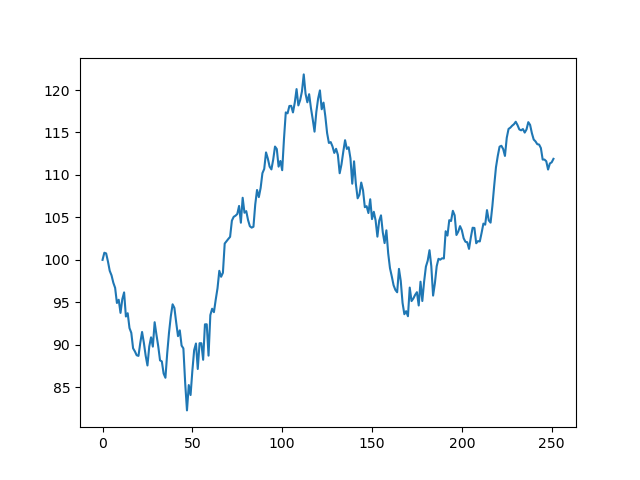
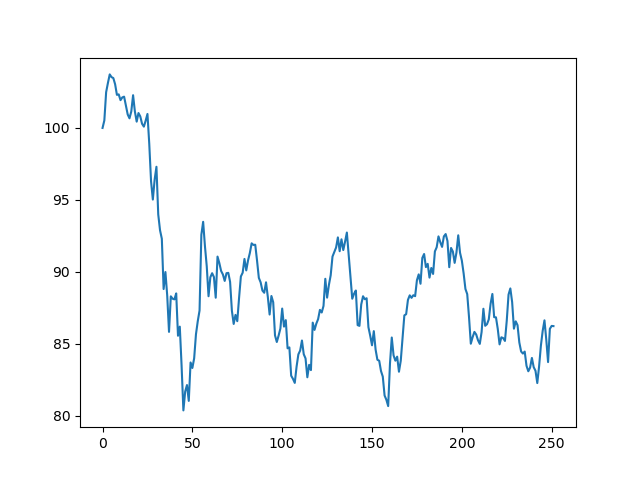
nll completed for DCC GARCH

diff --git a/data_generation_processes/DCC_GARCH.py b/data_generation_processes/DCC_GARCH.py
@@ -1,6 +1,7 @@
 import numpy as np
 import matplotlib.pyplot as plt
 from scipy.optimize import minimize
+import yfinance as yf
 
 class DCC_GARCH():
     """
@@ -29,56 +30,186 @@ class DCC_GARCH():
         self.N = data.shape[0]
         self.T = data.shape[1]
         self.data = data
-        self.r_data = data                                                      #(N, T)
-        self.mu = np.mean(self.r_data, axis=1, keepdims=True)                        #(N, 1) 
-        self.a_data = self.r_data - np.mean(self.r_data, axis=1, keepdims=True)           #(N, T)
-        self.H = np.cov(self.a_data)                                       #(N, N)
-        self.H_factor = np.linalg.cholesky(self.H)                        #(N, N)
-        self.D = np.diag(np.std(self.r_data, axis=1))                           #(N, N)
-        self.R = np.corrcoef(self.a_data)                                  #(N, N)
-        self.alpha0 = np.random.randn(self.N, 1)*0.1                            #(N, 1)
-        self.alpha = np.random.randn(self.N, 1)*0.1                             #(N, 1)
-        self.beta = np.random.randn(self.N, 1)*0.1                              #(N, 1)
-        self.a_return = self.H_factor@np.random.randn(self.N, 1)      #(N, 1)
-        self.r = self.mu + self.a_return     
+        self.r_data = data                                                          #(N, T)
+        self.mu = np.mean(self.r_data, axis=1, keepdims=True)                       #(N, 1) 
+        self.a_data = self.r_data - np.mean(self.r_data, axis=1, keepdims=True)     #(N, T)
+        self.H = np.cov(self.a_data)                                                #(N, N)
+        self.H_factor = np.linalg.cholesky(self.H)                                  #(N, N)
+        self.D = np.diag(np.std(self.a_data, axis=1))                               #(N, N)
+        self.R = np.corrcoef(self.a_data)                                           #(N, N)
+        self.a_return = self.H_factor@np.random.randn(self.N, 1)                    #(N, 1)
+        self.r = self.mu + self.a_return                                            #(N, 1)
         self.e = np.linalg.inv(self.D)@self.a_return                                #(N, 1)
         self.e_data = np.linalg.inv(self.D)@self.a_data                             #(N, T)
-        self.Q_bar = self.e_data@self.e_data.T/self.T                               #(N, N)
-        self.a = np.random.randn(1)*0.1
-        self.b = np.random.randn(1)*0.1                                             
+        self.Q_bar = self.e_data@self.e_data.T/self.T                               #(N, N)                                           
         self.Q = self.Q_bar                                                         #(N, N)
+        # self.params = np.zeros(self.N*3+2)+0.05                                     #[N*alpha0, N*alpha, N*beta, a, b]
+        # self.alpha0 = np.std(self.a_data, axis=1)
+        # self.params = np.append(self.alpha0, np.zeros(self.N*2+2)+0.005)             #[N*alpha0, N*alpha, N*beta, a, b]
+        # self.params = [8.31405269e-05, 4.71951483e-05, 8.88408298e-02, 1.05864782e-01, 2.24089113e-06, 1.00361059e-04, 2.45603818e-02, 1.47373622e-05]
+        # self.params = [8.31405269e-05, 4.71951483e-05, 8.88408298e-02, 1.05864782e-01, 2.24089113e-06, 1.00361059e-04, 2.45603818e-02, 1.47373622e-05]
+        # self.params = [7.12056487e-07, 2.78392987e-07, 2.35193830e-01, 2.22333143e-01, 4.24217714e-06, 1.80558148e-04, 9.97035213e-01, 8.78583222e-05]          #nll:  [[-50473.23009387]]
+        self.params = np.zeros(self.N*3+2)+0.25                                     #[N*alpha0, N*alpha, N*beta, a, b]
+        self.nll_losses = []
 
-    def D_t(self):
+        def constraint_ab(x):
+            return 1.0 - x[-2] - x[-1]
+
+        def constraint_a(x):
+            return x[-2]
+
+        def constraint_b(x):
+            return x[-1]
+
+        def constraint_alpha_beta1(x):
+            return 1.0 - x[self.N] - x[2*self.N]
+
+        def constraint_alpha01(x):
+            return x[0]
+        
+        def constraint_alpha1(x):
+            return x[self.N]
+
+        def constraint_beta1(x):
+            return x[2*self.N]
+        
+        def constraint_alpha_beta2(x):
+            return 1.0 - x[self.N+1] - x[2*self.N+1]
+
+        def constraint_alpha02(x):
+            return x[1]
+        
+        def constraint_alpha2(x):
+            return x[self.N+1]
+
+        def constraint_beta2(x):
+            return x[2*self.N+1]
+
+        def constraint_alpha_beta(x):
+            return 1.0 - x[self.N:2*self.N] - x[2*self.N:3*self.N]
+
+        def constraint_alpha0(x):
+            return x[0:self.N]
+        
+        def constraint_alpha(x):
+            return x[self.N:2*self.N]
+
+        def constraint_beta(x):
+            return x[2*self.N:3*self.N]
+
+        #[alpha01, alpha02, alpha1, alpha2, beta1, beta2, a, b]
+        # self.constraints = [{'type':'ineq', 'fun':constraint_ab},
+        #                     {'type':'ineq', 'fun':constraint_a},
+        #                     {'type':'ineq', 'fun':constraint_b},
+        #                     {'type':'ineq', 'fun':constraint_alpha_beta1},
+        #                     {'type':'ineq', 'fun':constraint_alpha01},
+        #                     {'type':'ineq', 'fun':constraint_alpha1},
+        #                     {'type':'ineq', 'fun':constraint_beta1},
+        #                     {'type':'ineq', 'fun':constraint_alpha_beta2},
+        #                     {'type':'ineq', 'fun':constraint_alpha02},
+        #                     {'type':'ineq', 'fun':constraint_alpha2},
+        #                     {'type':'ineq', 'fun':constraint_beta2}]
+        
+        self.constraints = [{'type':'ineq', 'fun':constraint_ab},
+                            {'type':'ineq', 'fun':constraint_a},
+                            {'type':'ineq', 'fun':constraint_b},
+                            {'type':'ineq', 'fun':constraint_alpha_beta},
+                            {'type':'ineq', 'fun':constraint_alpha0},
+                            {'type':'ineq', 'fun':constraint_alpha},
+                            {'type':'ineq', 'fun':constraint_beta}]
+
+    def D_t(self, params, t=0, train=False):
         """
             h_{n,t} = alpha0_{n} + alpha_{n} a_{n, t-1}^2 + beta_{n} h_{n, t-1}
         """
-        h_vector = np.expand_dims(np.diag(self.D_prev)**2,axis=1)
-        new_h_vector = self.alpha0 + self.alpha * self.a_return**2 + self.beta * h_vector
-        return np.diag(np.sqrt(new_h_vector.flatten()))
+        alpha0 = np.expand_dims(params[0:self.N],axis=1)
+        alpha = np.expand_dims(params[self.N:2*self.N],axis=1)
+        beta = np.expand_dims(params[2*self.N:3*self.N], axis=1)
+        
+        h_vector = np.expand_dims(np.diag(self.D)**2,axis=1)
+        if train:
+            self.a_return = self.a_data[:, t:t+1]
+        new_h_vector = alpha0 + alpha * self.a_return**2 + beta * h_vector
+        if np.any(new_h_vector<0):
+            print(new_h_vector)
+            print(alpha0)
+            print(alpha)
+            print(beta)
+        self.D = np.diag(np.sqrt(new_h_vector.flatten()))
+        return self.D
     
-    def R_t(self):
+    def R_t(self, params, t=0, train=False):
         """
-            e_t = D_t^{-1} a_t \sim N(0, R_t)
+            e_t = D_t^{-1} a_t \\sim N(0, R_t)
             R_t = Q_t^{*-1} Q_t Q_t^{*-1}
             Q_t = (1 - a - b) Q_bar + a e_{t-1} e_{t-1}^T + b Q_{t-1}
 
         """
-        self.Q = (1 - self.a - self.b) * self.Q_bar + self.a * self.e@self.e.T + self.b * self.Q
-        Q_diag_inv = np.linalg.inv(np.diag(np.diag(np.sqrt(self.Q))))
+        a = params[-2]
+        b = params[-1]
+
+        if train:
+            self.e = self.e_data[:, t:t+1]
+        self.Q = (1 - a - b) * self.Q_bar + a * self.e@self.e.T + b * self.Q
+        Q_diag_inv = np.linalg.inv(np.diag(np.sqrt(np.diag(self.Q))))
         self.R = Q_diag_inv@self.Q@Q_diag_inv
-        return
+        
+        return self.R
 
-    def log_likelihood(self):
-        return 
+    def r_t(self, t=0, train=False):
+        self.H = self.D@self.R@self.D
+        self.H_factor = np.linalg.cholesky(self.H)
+        self.a_return = self.H_factor@np.random.randn(self.N, 1)
+        self.r = self.mu + self.a_return
+        # update standardized disturbances
+        self.e = np.linalg.inv(self.D)@self.a_return
+        
+        return self.r
+    
+    def neg_log_likelihood(self, params):
+        print("params: ", params)
+        train = True
+        log_likelihood = 0
+        for t in range(self.T):
+            # if t % 100 == 0:
+            #     print(t)
+            self.D_t(params=params, t=t, train=train)
+            self.R_t(params=params, t=t, train=train)
+            current_log_likelihood = self.N * np.log(2*np.pi) + 2*np.log(np.linalg.det(self.D)) + np.log(np.linalg.det(self.R)) + self.a_return.T@np.linalg.inv(self.D)@np.linalg.inv(self.R)@np.linalg.inv(self.D)@self.a_return
+            log_likelihood += current_log_likelihood
+        print("nll: ", log_likelihood/2)
+        self.nll_losses.append(log_likelihood[0]/2)
+        return log_likelihood/2
 
-e = np.array([[3,7,2],[8,1,5],[2,5,4]])
-print(e)
-print()
-Q_bar = e@e.T/3
-Q_bar_it = np.zeros((3,3))
-print(e[:, 0:1])
-print()
-for i in range(Q_bar_it.shape[1]):
-    Q_bar_it = Q_bar_it + e[:, i:i+1]@e[:, i:i+1].T
-print(Q_bar_it/3)
-print(Q_bar)
+    
+    def train(self):
+        params = self.params
+        results = minimize(self.neg_log_likelihood, params, method="trust-constr",
+                           options={'disp': True}, constraints=self.constraints)
+        return results.x
+
+    def generate(self, S_0, num_points):
+        prices = np.ones((self.N, num_points)) * S_0
+        for t in range(num_points):
+            self.D_t(params=self.params)
+            self.R_t(params=self.params)
+            r_t = self.r_t()
+            prices[:, t+1:t+2] = prices[:, t:t+1]*np.exp(r_t)
+        return prices
+
+stocks = "^GDAXI ^GSPC"
+data = yf.download(stocks, start="2000-09-10", end="2024-08-20", interval="1d")
+log_returns = np.log(data['Close'] / data['Close'].shift(1)).dropna()
+log_returns_np = log_returns.to_numpy().T
+
+model = DCC_GARCH(log_returns_np)
+
+params = model.train()
+plt.plot(model.nll_losses)
+plt.savefig("nll_losses.png")
+plt.close()
+
+x = model.generate(100, 252*5)
+plt.plot(x.T)
+plt.savefig("dcc_garch_test.png")
+plt.close()
